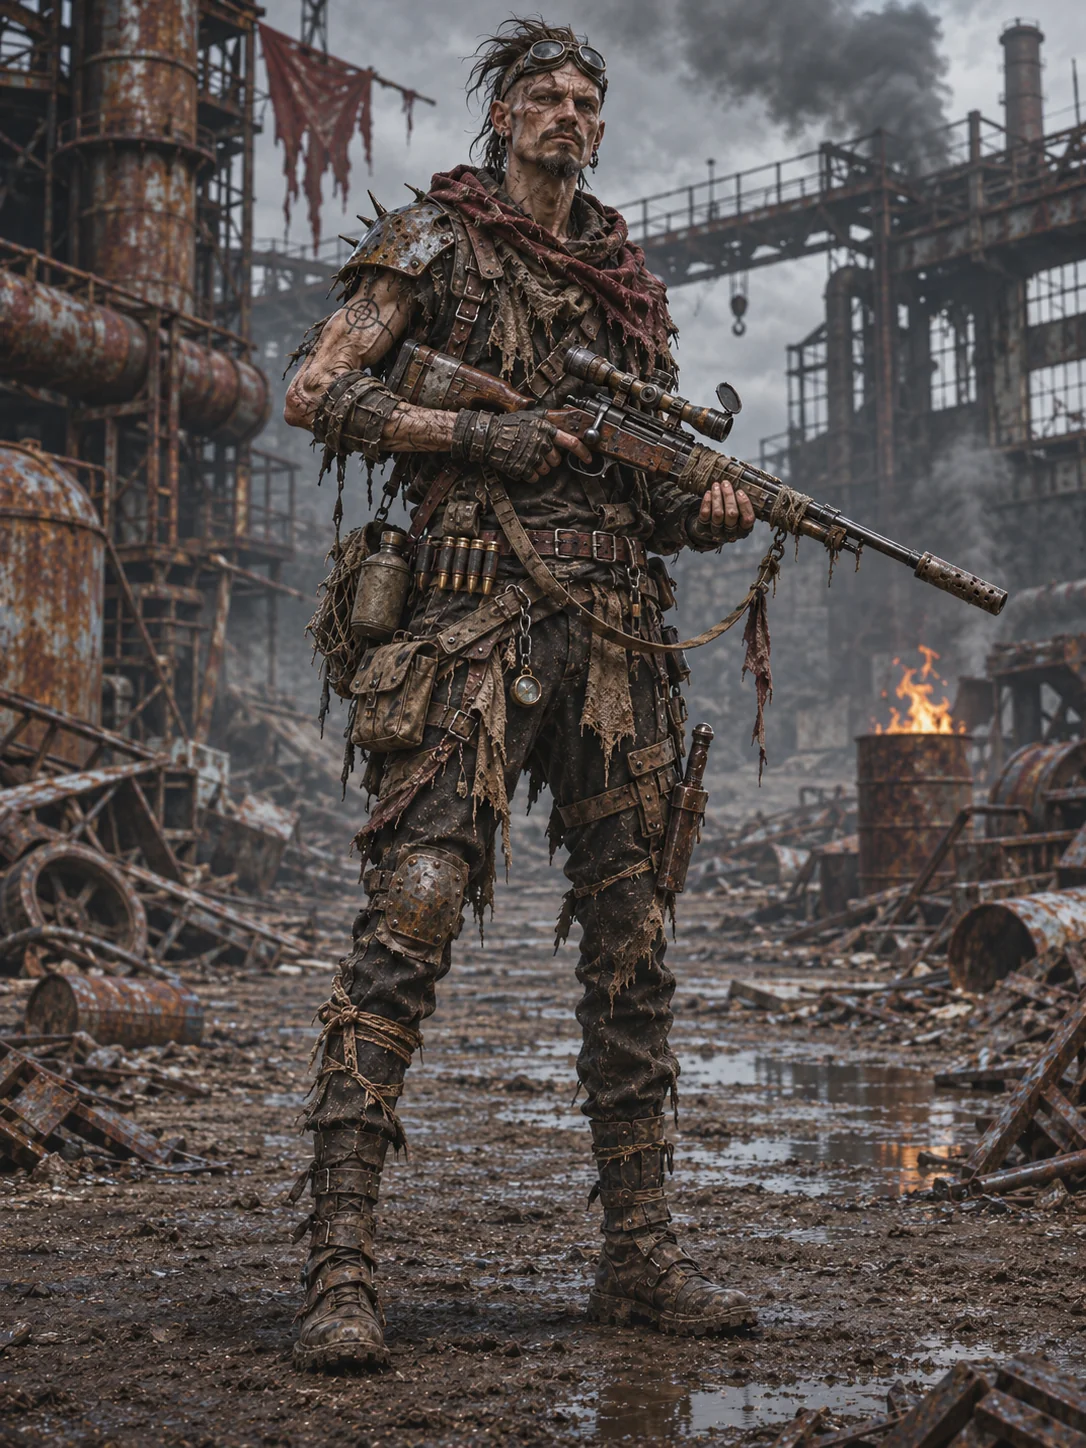
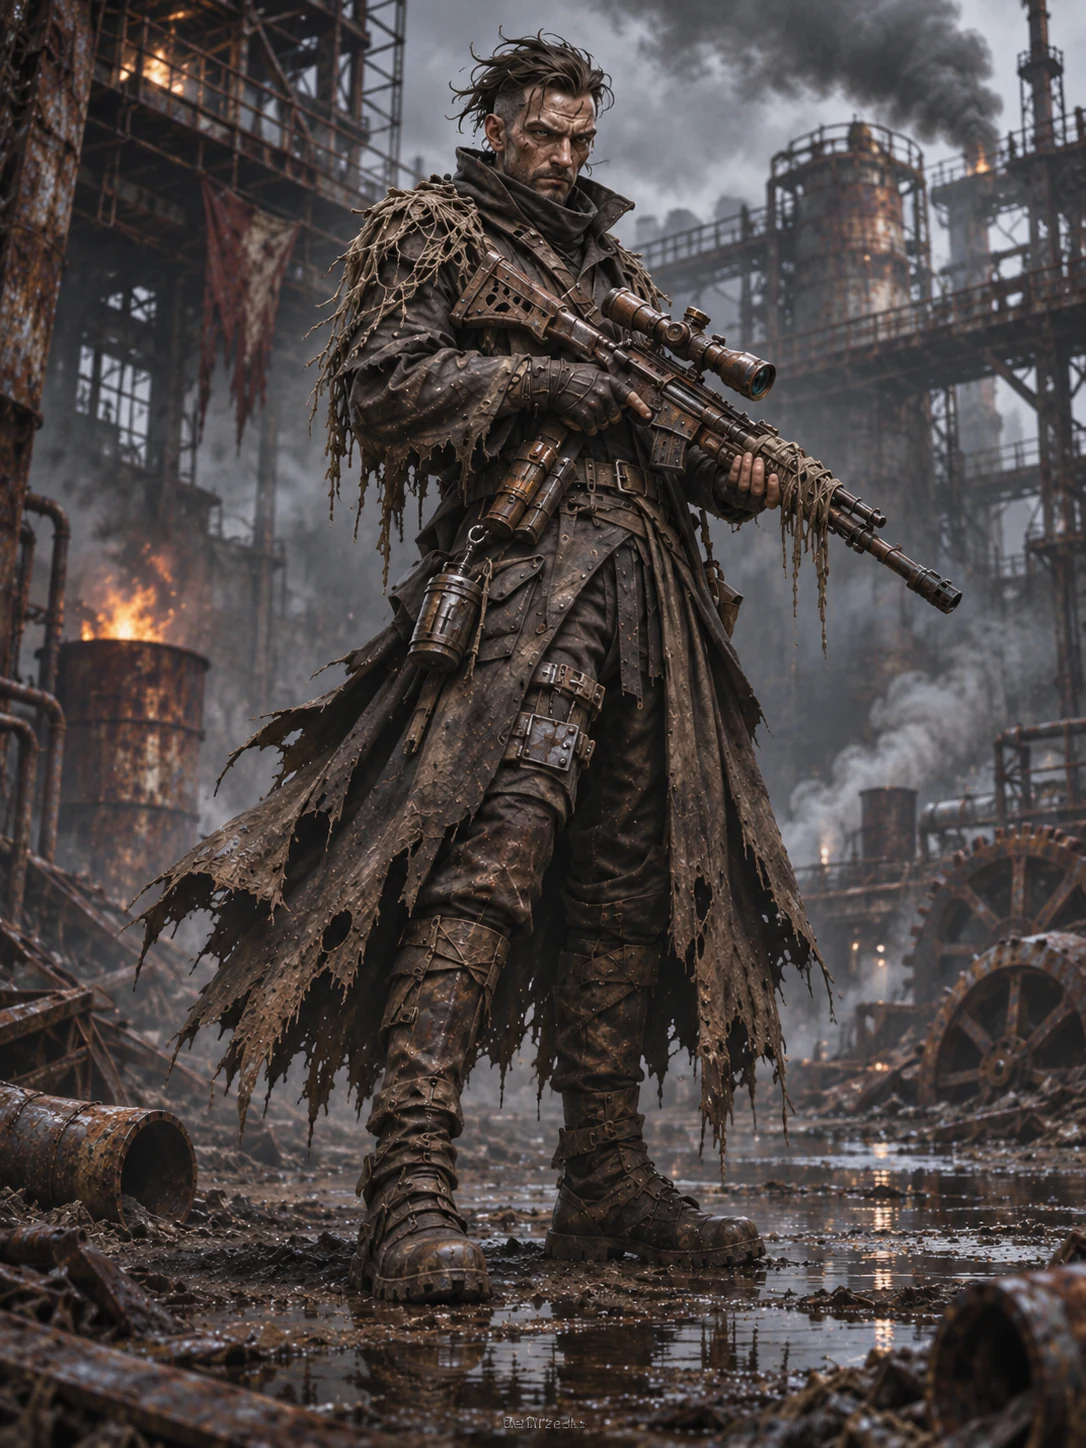
Add files via upload

diff --git a/js/expeditions.js b/js/expeditions.js
@@ -1,4 +1,4 @@
-/* ASHEN v0.3.0 — wyprawy klanowe / bossowie online.
+/* ASHEN v0.3.0.1 — poprawki grafik bossów i raportów.
  * Wymaga 005_clans.sql i 006_clan_expeditions.sql.
  * Dla aktualizacji z v0.2.9.x uruchom także 007_expedition_tactics_and_boss_art.sql.
  */
@@ -31,6 +31,10 @@ const FALLBACK_BOSS_ART={
  'Brat Mechanik':'boss-03-mechanik.webp',
  'Brat Strzelec':'boss-03-strzelec.webp'
 };
+const GROUP_BOSS_ART={
+ '3':'boss-03-brothers-group.webp',
+ 'Trzej Bracia Rdzy':'boss-03-brothers-group.webp'
+};
 const DEFAULT_BOSSES=[
  {id:1,name:'Rzeźnik ze Złomowiska',location:'Złomowisko Alfa',difficulty:'Łatwy',kind:'Humanoidalny boss',summary:'Samotny watażka szabrowników. Dobry na pierwszą wspólną walkę 2–3 osób.',min_players:2,max_players:5,portrait:'boss-01-rzeznik.webp'},
  {id:2,name:'Kanałowy Pożeracz',location:'Kanały pod Strefą 9',difficulty:'Średni',kind:'Pojedynczy mutant',summary:'Wielki zmutowany drapieżnik o wysokim PŻ i ciężkich obrażeniach.',min_players:2,max_players:5,portrait:'boss-02-pozeracz.webp'},
@@ -44,7 +48,8 @@ function hp(v,m){const value=Math.max(0,Number(v)||0),max=Math.max(1,Number(m)||
 function hpEnemy(v,m){const value=Math.max(0,Number(v)||0),max=Math.max(1,Number(m)||1);return `<div class="arena-health-track" role="progressbar" aria-valuemin="0" aria-valuemax="${Math.round(max)}" aria-valuenow="${Math.round(Math.min(value,max))}"><span class="is-enemy" style="width:${Math.max(0,Math.min(100,value/max*100))}%"></span></div>`}
 function hpLabel(v,m){return `${Math.max(0,Math.round(Number(v)||0))} / ${Math.max(1,Math.round(Number(m)||1))}`}
 function portrait(profile){const origin=['scout','fighter','tech'].includes(profile?.origin)?profile.origin:'scout';const gender=profile?.gender==='female'?'f':'m';return `<img src="./assets/characters/${origin}-${gender}-full.png" alt="${esc(profile?.name||'Postać')}" loading="lazy">`}
-function bossPortraitFile(entity,bossId){return entity?.portrait||FALLBACK_BOSS_ART[String(entity?.id||bossId||'')]||FALLBACK_BOSS_ART[String(entity?.name||'')]||''}
+function bossPortraitFile(entity,bossId){return entity?.portrait||FALLBACK_BOSS_ART[String(entity?.name||'')]||FALLBACK_BOSS_ART[String(entity?.id||bossId||'')]||''}
+function bossCardPortraitFile(entity,bossId){return entity?.portraitGroup||GROUP_BOSS_ART[String(entity?.name||'')]||GROUP_BOSS_ART[String(entity?.id||bossId||'')]||bossPortraitFile(entity,bossId)}
 function bossImage(file,alt,cls=''){return file?`<div class="${cls||'expedition-boss-art'}"><img src="./assets/bosses/${esc(file)}" alt="${esc(alt||'Boss')}" loading="lazy"></div>`:''}
 function enemyPortrait(enemy,index,bossId){const file=bossPortraitFile(enemy,bossId);return file?`<div class="expedition-enemy-portrait"><img src="./assets/bosses/${esc(file)}" alt="${esc(enemy?.name||'Wróg')}" loading="lazy"></div>`:`<div class="expedition-enemy-avatar">☠<span>${index+1}</span></div>`}
 function totalsRows(totals=[]){return totals.map((t,i)=>`<tr><td>${i+1}</td><td>${Number(t.attempts)||0}</td><td>${Number(t.hits)||0}</td><td>${Number(t.misses)||0}</td><td>${Number(t.critical)||0}</td><td>${Number(t.damage)||0}</td></tr>`).join('')}
@@ -67,19 +72,19 @@ function reportHtml(report){if(!report)return '<p class="muted">Nie znaleziono r
  </section>
  <section class="arena-round-review"><div class="arena-battle-section-title"><span>02 / RUNDY</span><h4>Przebieg walki</h4></div><div class="arena-rounds-list">${rounds.map(r=>`<details class="arena-round-card"><summary><span class="arena-round-number">RUNDA ${r.number}</span><span class="arena-round-damage">Drużyna zadała ${hpLost(r.enemy_hp_before,r.enemy_hp)} · Otrzymała ${hpLost(r.hero_hp_before,r.hero_hp)}</span><span class="arena-round-expand">Szczegóły</span></summary><div class="arena-round-card-body"><div class="expedition-round-health"><div><h5>Drużyna</h5>${heroes.map((h,i)=>`<div class="expedition-round-bar"><span>${esc(h.name)}</span><strong>${hpLabel((r.hero_hp||[])[i],maxHero[i])}</strong>${hp((r.hero_hp||[])[i],maxHero[i])}</div>`).join('')}</div><div><h5>Przeciwnicy</h5>${enemies.map((en,i)=>`<div class="expedition-round-bar"><span>${esc(en.name)}</span><strong>${hpLabel((r.enemy_hp||[])[i],maxEnemy[i])}</strong>${hpEnemy((r.enemy_hp||[])[i],maxEnemy[i])}</div>`).join('')}</div></div><div class="arena-round-events">${(r.events||[]).map(line=>`<p class="${eventTeam(line,heroes,enemies)}">${esc(line)}</p>`).join('')||'<p>Brak zapisanych zdarzeń.</p>'}</div></div></details>`).join('')||'<p class="muted">Brak zapisanych rund.</p>'}</div></section>
  <section class="arena-battle-finale"><div class="arena-battle-section-title"><span>03 / WYNIK</span><h4>Podsumowanie ekspedycji</h4></div><div class="arena-outcome-reason ${report.victory?'':'is-draw'}"><strong>${esc(outcome)}</strong><p>${esc(outcomeReason)}</p><div class="arena-final-hp"><div><span>Drużyna · PŻ po walce</span><strong>${(hpHero||[]).reduce((a,b)=>a+(Number(b)||0),0)} / ${(maxHero||[]).reduce((a,b)=>a+(Number(b)||0),0)}</strong>${hp((hpHero||[]).reduce((a,b)=>a+(Number(b)||0),0),(maxHero||[]).reduce((a,b)=>a+(Number(b)||0),1))}</div><div><span>Przeciwnicy · PŻ po walce</span><strong>${(hpEnemyArr||[]).reduce((a,b)=>a+(Number(b)||0),0)} / ${(maxEnemy||[]).reduce((a,b)=>a+(Number(b)||0),0)}</strong>${hpEnemy((hpEnemyArr||[]).reduce((a,b)=>a+(Number(b)||0),0),(maxEnemy||[]).reduce((a,b)=>a+(Number(b)||0),1))}</div></div></div></section>
- <div class="arena-report-reward"><strong>Wersja 0.3.0:</strong> bossowie mają już własne grafiki i taktykę drużyny przed walką. Nagrody i łupy dodamy w kolejnym etapie.</div></div>`;
+ <div class="arena-report-reward"><strong>Wersja 0.3.0.1:</strong> poprawiono ramki grafik bossów oraz rozdzielono grafiki Trzech Braci Rdzy na główną grafikę grupową i osobne portrety w raporcie. Nagrody i łupy dodamy w kolejnym etapie.</div></div>`;
 }
 function dialog(){if(!openedReportId)return '';return `<div class="arena-report-overlay" data-expedition-overlay="1"><div class="arena-report-dialog" role="dialog" aria-modal="true" aria-label="Raport ekspedycji"><div class="arena-report-dialog-toolbar"><span>☠ RAPORT EKSPEDYCJI KLANOWEJ</span><button type="button" data-expedition-close-report="1">✕ Wróć</button></div><div class="arena-report-dialog-scroll">${reportLoading?'<p class="muted">Pobieranie raportu…</p>':reportHtml(openedReport)}</div></div></div>`}
 function tacticsHtml(expedition,role){const current=tacticMeta(expedition?.tactic||'focus_weakest');return `<div class="expedition-tactics"><div class="expedition-tactics-head"><div><h4>Taktyka wyprawy</h4><p class="small muted">Obecnie: <strong>${esc(expedition?.tactic_label||current.label)}</strong></p></div></div><div class="expedition-tactics-grid">${TACTICS.map(t=>`<button type="button" class="expedition-tactic-btn ${current.id===t.id?'is-active':''}" data-expedition-tactic="${expedition.id}" data-value="${t.id}" ${!['leader','officer'].includes(role)||busy?'disabled':''}><strong>${esc(t.label)}</strong><small>${esc(t.desc)}</small></button>`).join('')}</div><p class="small muted">Taktyka wpływa na wybór celów przez drużynę po rozpoczęciu walki. Możesz ją zmienić przed kliknięciem „Rozpocznij walkę z bossem”.</p></div>`}
 function html(){ensure();if(!active())return `<section class="section"><h2>☠ Ekspedycje klanowe</h2><div class="notice">Zaloguj się przez ☁ Konto online i połącz konto z postacią, aby brać udział w ekspedycjach klanowych.</div></section>`;
  const c=state?.clan,role=state?.my_role,members=state?.members||[],bosses=state?.bosses||DEFAULT_BOSSES,activeExp=state?.active_expedition,reports=state?.reports||[],progress=state?.progress||{highest_unlocked:3,boss_wins:[]};
- const header=`<section class="section expedition-page"><div class="expedition-header"><div><span class="tag">ASHEN 0.3.0 · EKSPEDYCJE KLANOWE</span><h2>☠ Bossowie Pustkowi</h2><p class="muted small">Wspólne wyprawy dla klanu: utwórz skład, ustaw taktykę i rozstrzygnij walkę na serwerze.</p></div><button data-expedition-refresh="1" ${loading||busy?'disabled':''}>↻ Odśwież</button></div>${error?`<div class="notice">⚠ ${esc(error)}</div>`:''}${info?`<div class="notice">✓ ${esc(info)}</div>`:''}${loading?'<p class="muted">Pobieranie danych ekspedycji…</p>':''}`;
+ const header=`<section class="section expedition-page"><div class="expedition-header"><div><span class="tag">ASHEN 0.3.0.1 · EKSPEDYCJE KLANOWE</span><h2>☠ Bossowie Pustkowi</h2><p class="muted small">Wspólne wyprawy dla klanu: utwórz skład, ustaw taktykę i rozstrzygnij walkę na serwerze.</p></div><button data-expedition-refresh="1" ${loading||busy?'disabled':''}>↻ Odśwież</button></div>${error?`<div class="notice">⚠ ${esc(error)}</div>`:''}${info?`<div class="notice">✓ ${esc(info)}</div>`:''}${loading?'<p class="muted">Pobieranie danych ekspedycji…</p>':''}`;
  if(!state)return header+(!loading?'<p class="muted">Nie udało się pobrać danych. Kliknij Odśwież.</p>':'')+'</section>';
  if(!c)return header+`<div class="notice">Najpierw dołącz do klanu w zakładce <strong>Klany</strong>. Bossowie są wspólną aktywnością klanową.</div></section>${dialog()}`;
  const activeBoss=activeExp?.boss||bosses.find(b=>Number(b.id)===Number(activeExp?.boss_id));
- const activeBossImg=activeBoss?bossImage(bossPortraitFile(activeBoss,activeBoss.id),activeBoss.name,'expedition-active-art'):'';
+ const activeBossImg=activeBoss?bossImage(bossCardPortraitFile(activeBoss,activeBoss.id),activeBoss.name,'expedition-active-art'):'';
  const activeBox=activeExp?`<div class="panel expedition-panel active-expedition"><div class="expedition-active-layout">${activeBossImg}<div class="expedition-active-main"><div class="expedition-active-top"><div><span class="tag">AKTYWNA WYPRAWA</span><h3>${esc(activeBoss?.name||activeExp.boss_name||'Boss')}</h3><p class="small muted">${esc(activeBoss?.location||activeExp.location||'Nieznana lokacja')} · Twórca: ${esc(activeExp.created_by_name||'—')} · Utworzono: ${fmt(activeExp.created_at)}</p><p class="small muted">Status: <strong>${activeExp.status==='forming'?'Zbiórka składu':'Rozliczona'}</strong> · Wymagane minimum: ${Number(activeBoss?.min_players||2)} osoby · Maksimum: ${Number(activeBoss?.max_players||5)} osób</p></div><div class="expedition-active-pill">${(activeExp.participants||[]).length} / ${Number(activeBoss?.max_players||5)}</div></div><div class="expedition-members">${(activeExp.participants||[]).map(p=>`<div class="clan-member"><div><strong>${esc(p.name)}</strong><p class="small muted">Poziom ${Number(p.level)||1} · ${roleName(p.role||'member')} ${p.user_id===user()?'· Ty':''}</p></div><div class="tag">${fmt(p.joined_at)}</div></div>`).join('')||'<p class="muted">Nikt jeszcze nie dołączył.</p>'}</div>${tacticsHtml(activeExp,role)}<div class="actions">${!(activeExp.participants||[]).some(p=>p.user_id===user())?`<button class="primary" data-expedition-join="${activeExp.id}" ${busy?'disabled':''}>Dołącz do wyprawy</button>`:`<button data-expedition-leave="${activeExp.id}" ${busy?'disabled':''}>Opuść wyprawę</button>`}${['leader','officer'].includes(role)?`<button class="primary" data-expedition-launch="${activeExp.id}" ${(activeExp.participants||[]).length<(Number(activeBoss?.min_players||2))||busy?'disabled':''}>⚔ Rozpocznij walkę z bossem</button><button data-expedition-cancel="${activeExp.id}" ${busy?'disabled':''}>Anuluj wyprawę</button>`:''}</div><p class="small muted">Każdy uczestnik walczy swoim aktualnym profilem online z chwili rozpoczęcia wyprawy. Nie ma trwałej utraty PŻ ani ekwipunku.</p></div></div></div>`:`<div class="panel expedition-panel"><h3>Brak aktywnej wyprawy</h3><p class="small muted">Lider lub oficer może wybrać jednego z trzech pierwszych bossów i otworzyć zbiórkę składu. Domyślna taktyka nowej wyprawy to <strong>Dobić najsłabszych</strong> — możesz ją później zmienić przed startem walki.</p></div>`;
- const bossCards=`<div class="expedition-boss-grid">${bosses.map(b=>{const unlocked=Number(b.id)<=Number(progress.highest_unlocked||3);const defeated=(progress.boss_wins||[]).includes?.(b.id)||Array.isArray(progress.boss_wins)&&progress.boss_wins.map(Number).includes(Number(b.id));return `<article class="expedition-boss-card ${unlocked?'':'is-locked'}"><div class="expedition-boss-top"><span class="tag">BOSS ${String(b.id).padStart(2,'0')}</span><span class="expedition-difficulty">${esc(b.difficulty||'—')}</span></div>${bossImage(bossPortraitFile(b,b.id),b.name)}<h3>${esc(b.name)}</h3><p class="small muted">${esc(b.kind||'Boss')} · ${esc(b.location||'Nieznana lokacja')}</p><p>${esc(b.summary||'')}</p><div class="expedition-boss-meta"><span>Skład: ${Number(b.min_players)||2}–${Number(b.max_players)||5}</span><span>${defeated?'✓ Pokonany':'• Niepokonany'}</span></div><div class="actions">${['leader','officer'].includes(role)?`<button class="primary" data-expedition-create="${b.id}" ${!unlocked||busy||activeExp?'disabled':''}>Utwórz wyprawę</button>`:`<button disabled>Tylko lider lub oficer</button>`}</div></article>`}).join('')}</div>`;
+ const bossCards=`<div class="expedition-boss-grid">${bosses.map(b=>{const unlocked=Number(b.id)<=Number(progress.highest_unlocked||3);const defeated=(progress.boss_wins||[]).includes?.(b.id)||Array.isArray(progress.boss_wins)&&progress.boss_wins.map(Number).includes(Number(b.id));return `<article class="expedition-boss-card ${unlocked?'':'is-locked'}"><div class="expedition-boss-top"><span class="tag">BOSS ${String(b.id).padStart(2,'0')}</span><span class="expedition-difficulty">${esc(b.difficulty||'—')}</span></div>${bossImage(bossCardPortraitFile(b,b.id),b.name)}<h3>${esc(b.name)}</h3><p class="small muted">${esc(b.kind||'Boss')} · ${esc(b.location||'Nieznana lokacja')}</p><p>${esc(b.summary||'')}</p><div class="expedition-boss-meta"><span>Skład: ${Number(b.min_players)||2}–${Number(b.max_players)||5}</span><span>${defeated?'✓ Pokonany':'• Niepokonany'}</span></div><div class="actions">${['leader','officer'].includes(role)?`<button class="primary" data-expedition-create="${b.id}" ${!unlocked||busy||activeExp?'disabled':''}>Utwórz wyprawę</button>`:`<button disabled>Tylko lider lub oficer</button>`}</div></article>`}).join('')}</div>`;
  const reportsBox=`<div class="panel expedition-panel"><div class="expedition-history-head"><h3>Ostatnie raporty ekspedycji</h3><span class="tag">Pokonane bossy: ${Array.isArray(progress.boss_wins)?progress.boss_wins.length:0}</span></div>${reports.length?`<div class="mail-list">${reports.map(r=>`<button class="mail-row" data-expedition-open-report="${r.id}"><strong>${r.victory?'✓':'✕'} ${esc(r.boss_name||'Boss')}</strong><span>${r.victory?'Zwycięstwo':'Porażka'} · ${esc(r.location||'')}</span><small>${fmt(r.created_at)}</small></button>`).join('')}</div>`:'<p class="muted">Klan nie ma jeszcze zapisanych raportów bossów.</p>'}<p class="small muted">Plan długoterminowy: 15–20 bossów. W tej wersji dostępne są trzy pierwsze spotkania, pełne grafiki pierwszych bossów i pierwsza warstwa taktyki wyprawy.</p></div>`;
  return header+`<div class="panel expedition-panel"><div class="expedition-clan-strip"><div><strong>[${esc(c.tag)}] ${esc(c.name)}</strong><p class="small muted">Twoja rola: ${roleName(role)} · Członków klanu: ${members.length}</p></div><div class="expedition-progress-pill">Odblokowani bossowie: 1–${Number(progress.highest_unlocked||3)}</div></div></div>${activeBox}<div class="panel expedition-panel"><h3>Wybór bossa</h3><p class="small muted">Boss nr 3 nadal nie jest jeszcze walką endgame — to pierwszy test walki grupowej z kilkoma przeciwnikami. Kolejne bossy dołożymy na tym samym silniku.</p>${bossCards}</div>${reportsBox}</section>${dialog()}`;
 }

diff --git a/css/style.css b/css/style.css
@@ -1206,8 +1206,8 @@ body.arena-report-modal-open{overflow:hidden}
 .expedition-header,.expedition-history-head,.expedition-clan-strip,.expedition-active-top{display:flex;justify-content:space-between;gap:16px;align-items:flex-start;flex-wrap:wrap}
 .expedition-progress-pill,.expedition-active-pill{padding:10px 14px;border-radius:999px;background:rgba(212,170,71,.12);border:1px solid rgba(212,170,71,.28);color:var(--gold);font-weight:700}
 .expedition-panel{margin-bottom:16px}
-.expedition-boss-grid{display:grid;grid-template-columns:repeat(auto-fit,minmax(240px,1fr));gap:14px;margin-top:14px}
-.expedition-boss-card{border:1px solid rgba(255,255,255,.08);border-radius:18px;padding:16px;background:linear-gradient(180deg,rgba(26,33,38,.96),rgba(18,23,28,.96));box-shadow:0 10px 24px rgba(0,0,0,.18)}
+.expedition-boss-grid{display:grid;grid-template-columns:repeat(auto-fit,minmax(300px,1fr));gap:16px;margin-top:14px}
+.expedition-boss-card{border:1px solid rgba(255,255,255,.08);border-radius:18px;padding:18px;background:linear-gradient(180deg,rgba(26,33,38,.96),rgba(18,23,28,.96));box-shadow:0 10px 24px rgba(0,0,0,.18)}
 .expedition-boss-card.is-locked{opacity:.62;filter:saturate(.7)}
 .expedition-boss-top{display:flex;justify-content:space-between;gap:10px;align-items:center;margin-bottom:8px}
 .expedition-difficulty{font-size:12px;padding:4px 8px;border-radius:999px;background:rgba(255,255,255,.05);border:1px solid rgba(255,255,255,.08)}
@@ -1231,9 +1231,9 @@ body.arena-report-modal-open{overflow:hidden}
 
 
 .expedition-boss-art,.expedition-active-art{position:relative;overflow:hidden;border-radius:18px;border:1px solid rgba(212,170,71,.22);background:linear-gradient(180deg,rgba(22,28,34,.95),rgba(12,16,20,.95));box-shadow:inset 0 1px 0 rgba(255,255,255,.04)}
-.expedition-boss-art{aspect-ratio:4/3;margin:10px 0 14px}
-.expedition-active-art{width:220px;min-width:220px;aspect-ratio:3/4}
-.expedition-boss-art img,.expedition-active-art img,.expedition-enemy-portrait img{width:100%;height:100%;display:block;object-fit:cover}
+.expedition-boss-art{height:360px;margin:12px 0 14px}
+.expedition-active-art{width:260px;min-width:260px;height:340px}
+.expedition-boss-art img,.expedition-active-art img,.expedition-enemy-portrait img{width:100%;height:100%;display:block;object-fit:cover;object-position:center top}
 .expedition-active-layout{display:flex;gap:18px;align-items:flex-start;flex-wrap:wrap}
 .expedition-active-main{flex:1 1 420px;min-width:0}
 .expedition-tactics{margin:16px 0;padding:14px;border-radius:16px;border:1px solid rgba(212,170,71,.16);background:rgba(212,170,71,.05)}
@@ -1248,4 +1248,4 @@ body.arena-report-modal-open{overflow:hidden}
 .expedition-tactic-btn:disabled{opacity:.7;cursor:not-allowed}
 .expedition-team-grid.is-enemies .arena-fighter-portrait{border-color:rgba(215,87,87,.28)}
 .expedition-enemy-portrait{width:108px;height:144px;border-radius:16px;overflow:hidden;margin:0 auto 10px;border:1px solid rgba(215,87,87,.28);background:linear-gradient(180deg,#28191b,#171114)}
-@media (max-width: 760px){.expedition-active-art{width:100%;min-width:0;max-width:320px}.expedition-active-layout{flex-direction:column}.expedition-boss-art{aspect-ratio:3/4}}
+@media (max-width: 760px){.expedition-active-art{width:100%;min-width:0;max-width:340px;height:340px}.expedition-active-layout{flex-direction:column}.expedition-boss-grid{grid-template-columns:1fr}.expedition-boss-art{height:340px}}

diff --git a/index.html b/index.html
@@ -1,1 +1,1 @@
-<!doctype html><html lang="pl"><head><meta charset="utf-8"><meta name="viewport" content="width=device-width,initial-scale=1"><title>ASHEN — Kroniki Upadku v0.3.0</title><link rel="stylesheet" href="./css/style.css?v=0.3.0"></head><body><div id="app"></div><script src="https://cdn.jsdelivr.net/npm/@supabase/supabase-js@2" defer></script><script src="./js/cloud.js?v=0.3.0" defer></script><script src="./js/game.js?v=0.3.0" defer></script><script src="./js/online.js?v=0.3.0" defer></script><script src="./js/clans.js?v=0.3.0" defer></script><script src="./js/expeditions.js?v=0.3.0" defer></script></body></html>
+<!doctype html><html lang="pl"><head><meta charset="utf-8"><meta name="viewport" content="width=device-width,initial-scale=1"><title>ASHEN — Kroniki Upadku v0.3.0.1</title><link rel="stylesheet" href="./css/style.css?v=0.3.0.1"></head><body><div id="app"></div><script src="https://cdn.jsdelivr.net/npm/@supabase/supabase-js@2" defer></script><script src="./js/cloud.js?v=0.3.0.1" defer></script><script src="./js/game.js?v=0.3.0.1" defer></script><script src="./js/online.js?v=0.3.0.1" defer></script><script src="./js/clans.js?v=0.3.0.1" defer></script><script src="./js/expeditions.js?v=0.3.0.1" defer></script></body></html>

diff --git a/js/game.js b/js/game.js
@@ -1,4 +1,4 @@
-const APP_VERSION='0.3.0';
+const APP_VERSION='0.3.0.1';
 
 (()=>{'use strict';const LEGACY_KEY='ashen-save-v010';const attrNames={str:'Siła',dex:'Zręczność',end:'Wytrzymałość',per:'Percepcja',int:'Inteligencja',cha:'Charyzma'};
 

diff --git a/README.md b/README.md
@@ -1,66 +1,40 @@
-# ASHEN v0.3.0 — grafiki bossów i taktyka ekspedycji
+# ASHEN v0.3.0.1 — poprawki grafik bossów
 
-Ta wersja rozwija **ekspedycje klanowe** o dwie rzeczy, które były kolejnym krokiem po v0.2.9.1:
+Ta wersja to szybka poprawka po v0.3.0.
 
-1. **indywidualne grafiki bossów i przeciwników**,  
-2. **taktykę drużyny wybieraną przed walką**.
+## Co poprawiono
 
-## Co doszło
+### Wybór bossa
+- powiększone ramki grafik bossów,
+- karty bossów są większe i bardziej prostokątne,
+- grafiki powinny lepiej mieścić się w podglądzie.
 
-### Grafiki bossów
-- każdy z 3 pierwszych bossów ma teraz własną grafikę,
-- **Brat Tarczownik**, **Brat Mechanik** i **Brat Strzelec** mają osobne portrety,
-- grafiki są widoczne:
-  - na kartach bossów,
-  - w aktywnej wyprawie,
-  - w raportach walki.
+### Trzej Bracia Rdzy
+- nowa grafika główna grupy **Trzej Bracia Rdzy** — wszyscy trzej razem,
+- nowe indywidualne grafiki:
+  - **Brat Tarczownik**
+  - **Brat Mechanik**
+  - **Brat Strzelec**
+- Bracia nie mają już tej samej twarzy co **Rzeźnik ze Złomowiska**.
 
-### Taktyka wyprawy
-Lider lub oficer może ustawić taktykę aktywnej wyprawy przed uruchomieniem walki:
-- **Dobić najsłabszych**
-- **Na największe zagrożenie**
-- **Rozproszyć ogień**
+### Raport ekspedycji
+- poprawione dobieranie grafik przeciwników w raporcie,
+- historyczne raporty Braci Rdzy powinny pokazywać osobne portrety po nazwach przeciwników, a nie jedno wspólne zdjęcie.
 
-Taktyka wpływa na wybór celu przez drużynę podczas rozliczania walki na serwerze.
+## SQL
+**Nie trzeba uruchamiać nowego SQL.**
 
-## Nadal bez zmian
-W tej wersji nadal **nie ma jeszcze**:
-- nagród za bossów,
-- łupów,
-- pełnej ekonomii ekspedycji,
-- pełnej kampanii 15–20 bossów.
-
-To będzie następny etap.
-
-## Wymagany SQL
-
-### Jeśli masz już v0.2.9 / v0.2.9.1
-Uruchom dodatkowo:
-- `multiplayer/supabase/007_expedition_tactics_and_boss_art.sql`
-
-### Jeśli stawiasz wszystko od zera
-Uruchom po kolei:
-- `002_cloud_saves.sql`
-- `003_online_pvp.sql`
-- `005_clans.sql`
-- `006_clan_expeditions.sql`
-- `007_expedition_tactics_and_boss_art.sql`
+To jest poprawka tylko po stronie plików gry / assetów.
 
 ## Najważniejsze zmienione pliki
 - `index.html`
 - `css/style.css`
 - `js/game.js`
 - `js/expeditions.js`
-- `assets/bosses/*`
-- `multiplayer/supabase/007_expedition_tactics_and_boss_art.sql`
+- `assets/bosses/boss-03-brothers-group.webp`
+- `assets/bosses/boss-03-tarczownik.webp`
+- `assets/bosses/boss-03-mechanik.webp`
+- `assets/bosses/boss-03-strzelec.webp`
 
-## Dokument uruchomienia
-Szczegóły: `multiplayer/URUCHOMIENIE_0.3.0.md`
-
-## Bez zmian
-Nie ruszałem:
-- lokalnego PvE,
-- lokalnego PvP testowego,
-- ekwipunku i rozwoju postaci,
-- systemu klanów poza ekspedycjami,
-- ALLADYN.
+## Instalacja
+Podmień pliki z paczki i odśwież stronę przez **Ctrl + F5**.
